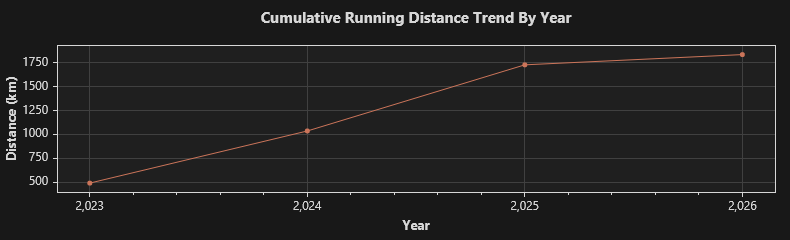
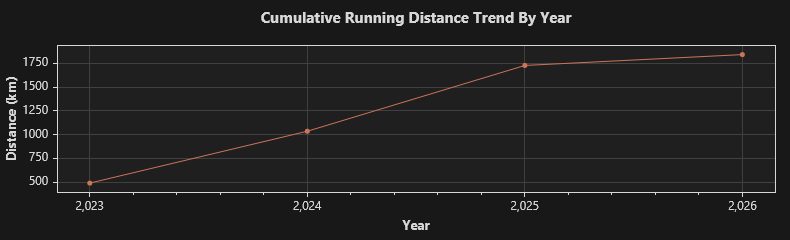
2026/3/15 跑步 4.97 公里

diff --git a/trend.md b/trend.md
@@ -1,4 +1,4 @@
-### Total: 313 days, 1836.07 km.
+### Total: 315 days, 1843.05 km.
 
 
 ![Monthly](https://github.com/prime167/MyRunningLog/blob/main/data/CumulativeTrendByMonth.png)
